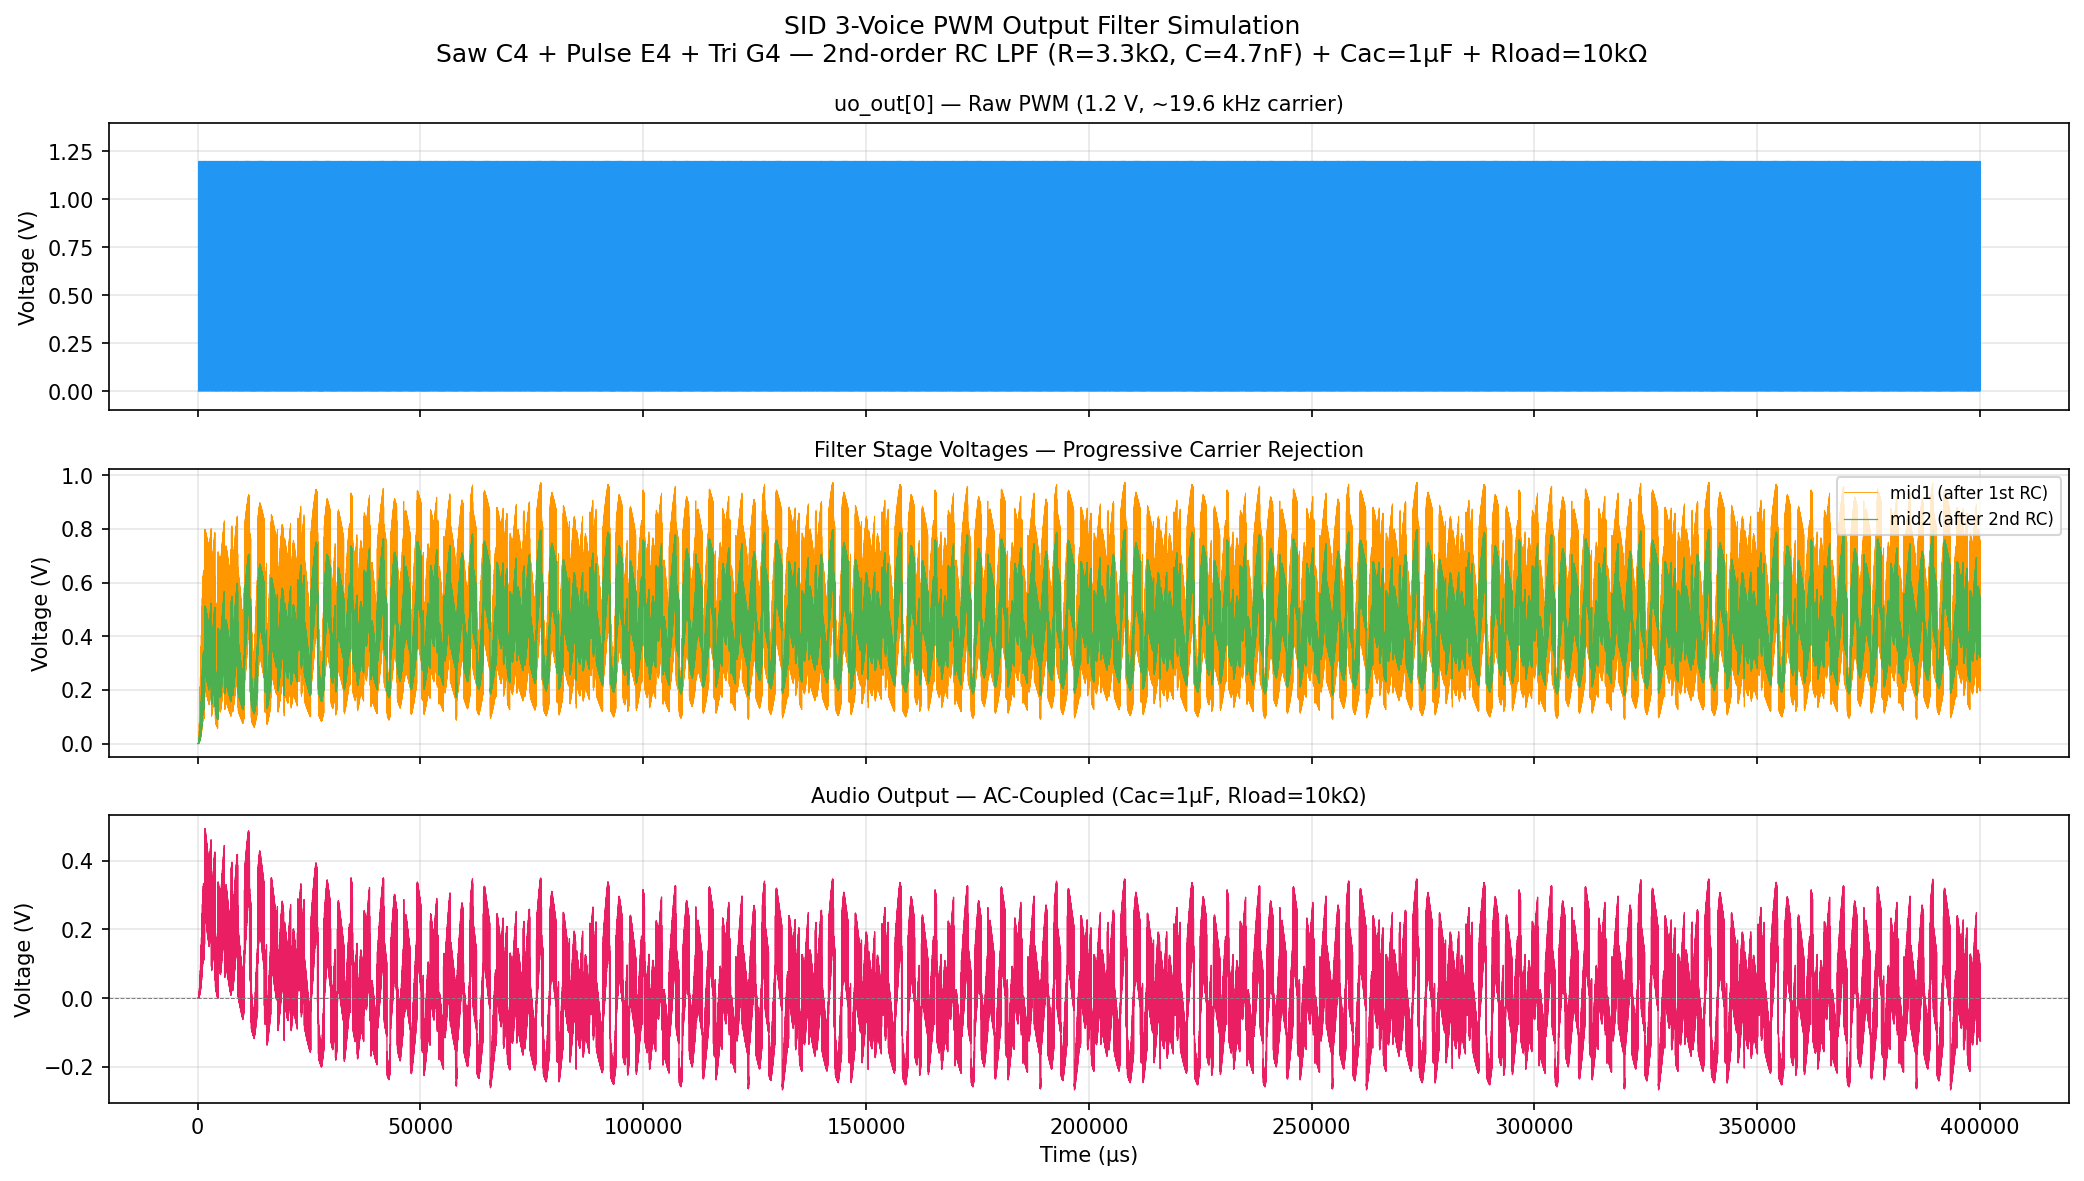
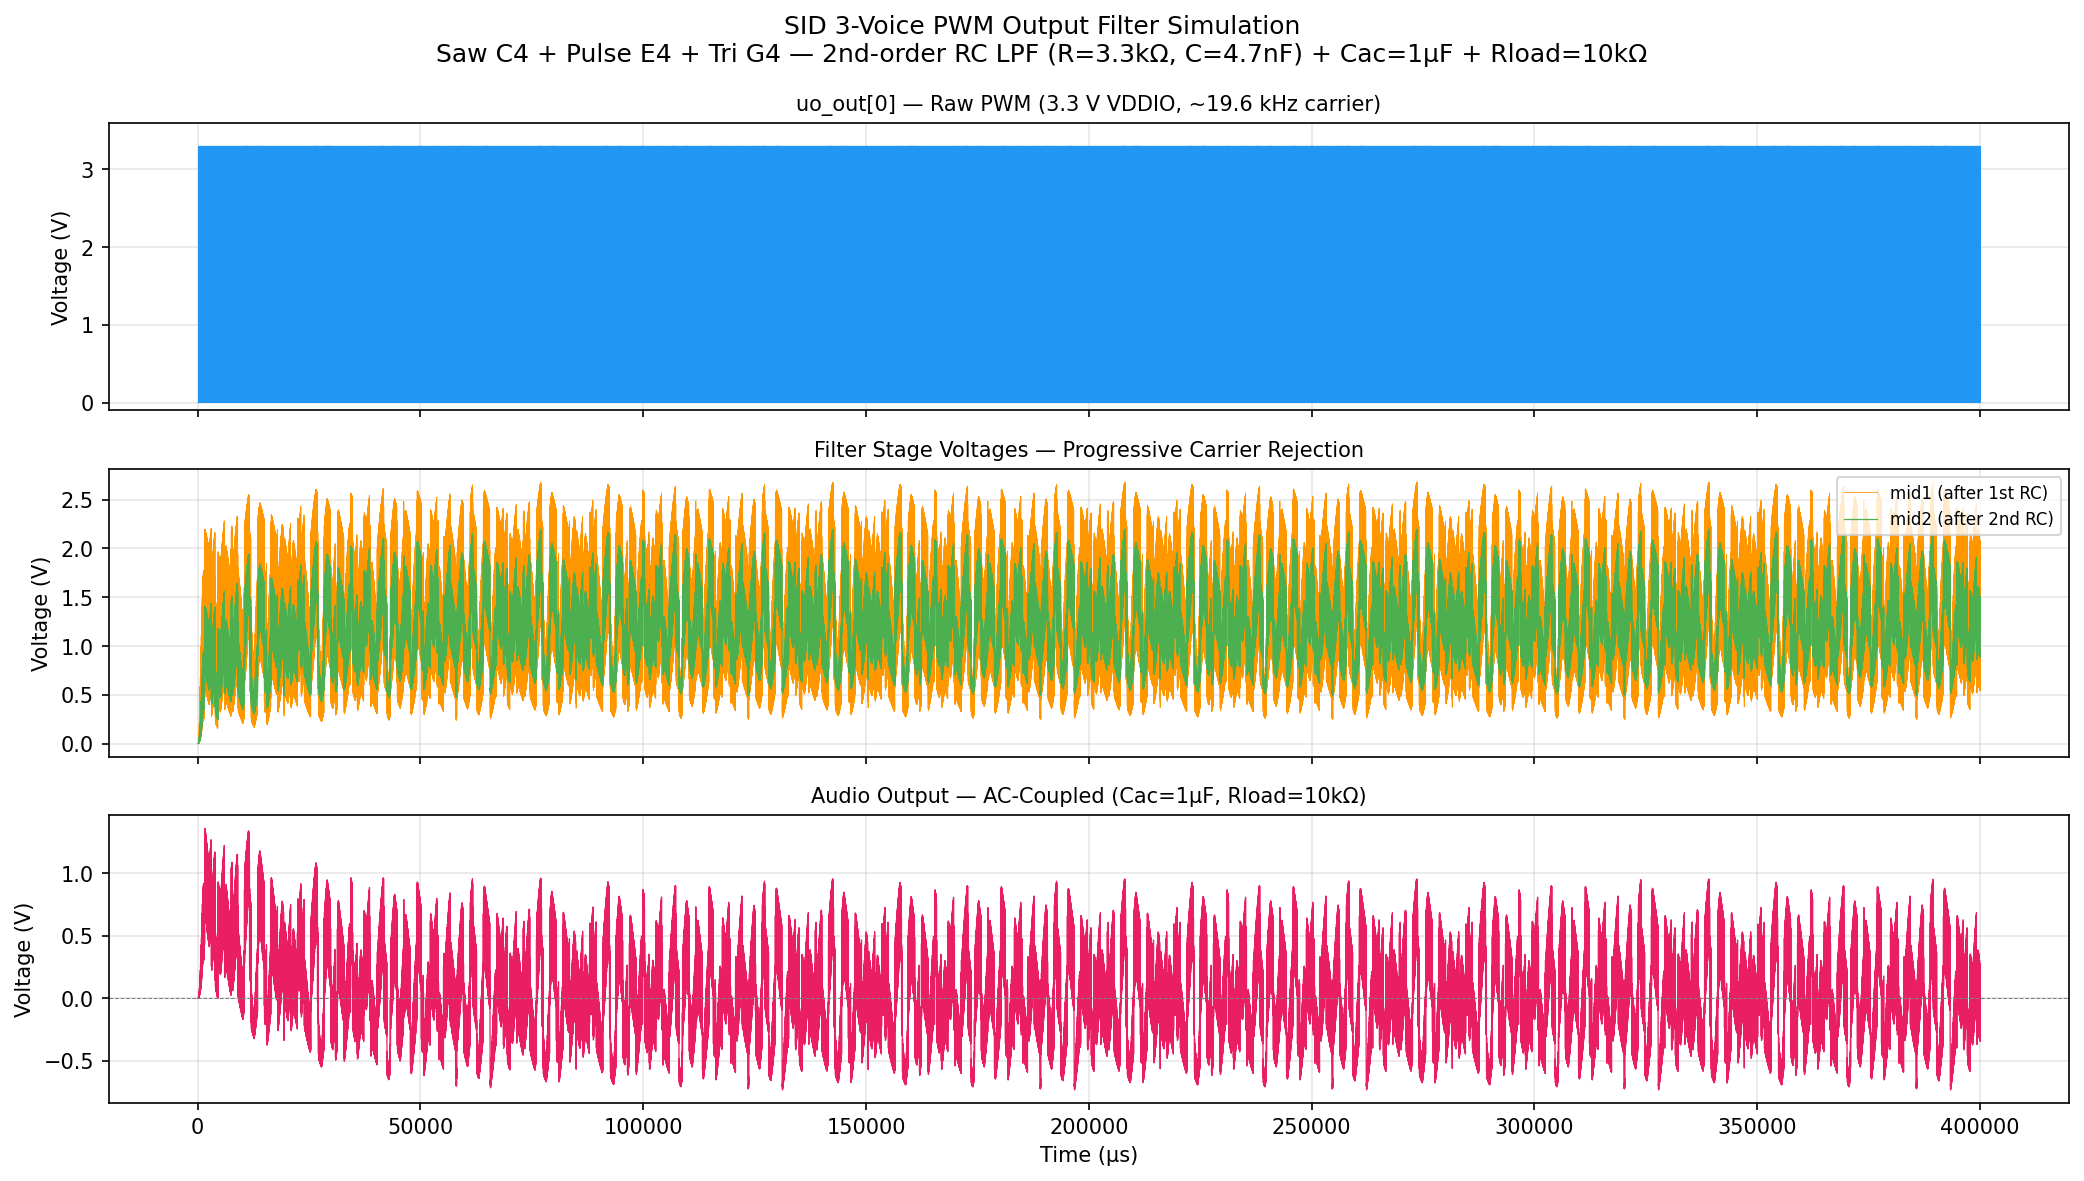
Fix PWM voltage to 3.3V VDDIO (I/O bank output level)

diff --git a/sim/plot_filter.py b/sim/plot_filter.py
@@ -166,8 +166,8 @@ def main():
     ax = axes[0]
     ax.plot(time_us_d, v_in_d, color="#2196F3", linewidth=0.2)
     ax.set_ylabel("Voltage (V)")
-    ax.set_ylim(-0.1, 1.4)
-    ax.set_title("uo_out[0] \u2014 Raw PWM (1.2 V, ~19.6 kHz carrier)", fontsize=10)
+    ax.set_ylim(-0.1, 3.6)
+    ax.set_title("uo_out[0] \u2014 Raw PWM (3.3 V VDDIO, ~19.6 kHz carrier)", fontsize=10)
     ax.grid(True, alpha=0.3)
 
     # Panel 2: Filter stages
